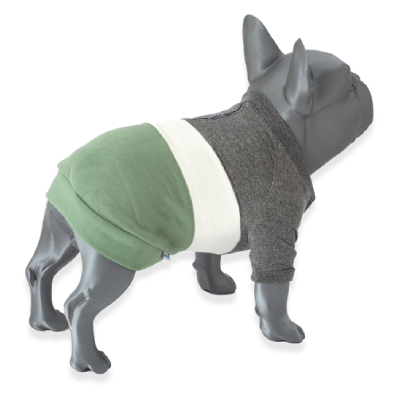
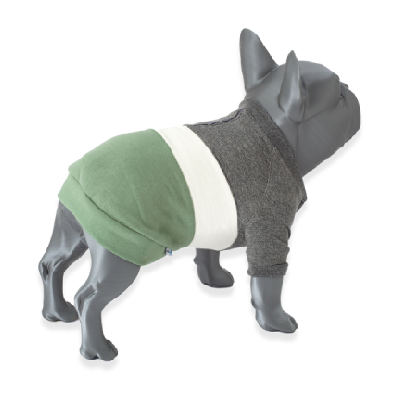
Finalizada la seccion de Senior Jack en Moda - Agregamos Dakota. Corrección en imagenes

diff --git a/moda.html b/moda.html
@@ -174,12 +174,159 @@
               </div>
               <p>Talles S, M, L y XL</p>
             </div>
-
-
-
-
+            <div id="item-moda">
+              <p class="marca-alim">Buzo Ocean Plush</p>
+              <div class="card">
+                <div class="first-content">
+                    <img src="./PROD-MODA/Senior-Jack/JACK-BUZO-OCEAN-PLUSH-COLORES.png" alt="">
+                </div>
+                <div class="second-content">
+                    <img src="./PROD-MODA/Senior-Jack/JACK-BUZO-OCEAN-PLUSH-MODELO.png" alt="">
+                </div>
+              </div>
+              <p>Talles S, M, L y XL</p>
+            </div>
+            <div id="item-moda">
+              <p class="marca-alim">Buzo Polar Estampado</p>
+              <div class="card">
+                <div class="first-content">
+                    <img src="./PROD-MODA/Senior-Jack/JACK-BUZO-POLAR-ESTAMPADO-COLORES.png" alt="">
+                </div>
+                <div class="second-content">
+                    <img src="./PROD-MODA/Senior-Jack/JACK-BUZO-POLAR-ESTAMPADO-MODELO.png" alt="">
+                </div>
+              </div>
+              <p>Talles S, M, L y XL</p>
+            </div>
+            <div id="item-moda">
+              <p class="marca-alim">Buzo Polar Liso</p>
+              <div class="card">
+                <div class="first-content">
+                    <img src="./PROD-MODA/Senior-Jack/JACK-BUZO-POLAR-LISO-COLORES.png" alt="">
+                </div>
+                <div class="second-content">
+                    <img src="./PROD-MODA/Senior-Jack/JACK-BUZO-POLAR-LISO-MODELO.png" alt="">
+                </div>
+              </div>
+              <p>Talles S, M, L y XL</p>
+            </div>
+            <div id="item-moda">
+              <p class="marca-alim">Buzo Trendy</p>
+              <div class="card">
+                <div class="first-content">
+                    <img src="./PROD-MODA/Senior-Jack/JACK-BUZO-TRENDY-COLORES.png" alt="">
+                </div>
+                <div class="second-content">
+                    <img src="./PROD-MODA/Senior-Jack/JACK-BUZO-TRENDY-MODELO.png" alt="">
+                </div>
+              </div>
+              <p>Talles S, M, L y XL</p>
+            </div>
           </div>
-    
+
+          <div class="titulo-marca">Camperas y Chalecos</div>
+          <div class="grilla-400">
+
+            <div id="item-moda">
+              <p class="marca-alim">Campera con Capucha de Piel</p>
+              <div class="card">
+                <div class="first-content">
+                    <img src="./PROD-MODA/Senior-Jack/JACK-CAMPERA-CAPUCHA-PIEL-COLORES.png" alt="">
+                </div>
+                <div class="second-content">
+                    <img src="./PROD-MODA/Senior-Jack/JACK-CAMPERA-CAPUCHA-PIEL-MODELO.png" alt="">
+                </div>
+              </div>
+              <p>Talles S, M, L y XL</p>
+            </div>
+            <div id="item-moda">
+              <p class="marca-alim">Campera Impermeable Regulable</p>
+              <div class="card">
+                <div class="first-content">
+                    <img src="./PROD-MODA/Senior-Jack/JACK-CAMPERA-IMP-REG-PREMIUM-COLORES.png" alt="">
+                </div>
+                <div class="second-content">
+                    <img src="./PROD-MODA/Senior-Jack/JACK-CAMPERA-IMP-REG-PREMIUM-MODELO.png" alt="">
+                </div>
+              </div>
+              <p>Talles S, M, L y XL</p>
+            </div>
+            <div id="item-moda">
+              <p class="marca-alim">Campera Maori</p>
+              <div class="card">
+                <div class="first-content">
+                    <img src="./PROD-MODA/Senior-Jack/JACK-CAMPERA-MAORI-COLORES.png" alt="">
+                </div>
+                <div class="second-content">
+                    <img src="./PROD-MODA/Senior-Jack/JACK-CAMPERA-MAORI-MODELO.png" alt="">
+                </div>
+              </div>
+              <p>Talles S, M, L y XL</p>
+            </div>
+            <div id="item-moda">
+              <p class="marca-alim">Chaleco Elastizado</p>
+              <div class="card">
+                <div class="first-content">
+                    <img src="./PROD-MODA/Senior-Jack/JACK-CHALECO-ELASTIZADO-COLORES.png" alt="">
+                </div>
+                <div class="second-content">
+                    <img src="./PROD-MODA/Senior-Jack/JACK-CHALECO-ELASTIZADO-MODELO.png" alt="">
+                </div>
+              </div>
+              <p>Talles S, M, L y XL</p>
+            </div>
+          </div>
+          <div class="titulo-marca">Capas y Pilotos para lluvia</div>
+          <div class="grilla-400">
+
+            <div id="item-moda">
+              <p class="marca-alim">Capa Liviana</p>
+              <div class="card">
+                <div class="first-content">
+                    <img src="./PROD-MODA/Senior-Jack/JACK-CAPA-LIVIANA-COLORES.png" alt="">
+                </div>
+                <div class="second-content">
+                    <img src="./PROD-MODA/Senior-Jack/JACK-CAPA-LIVIANA-MODELO.png" alt="">
+                </div>
+              </div>
+              <p>Talles S, M, L y XL</p>
+            </div>
+            <div id="item-moda">
+              <p class="marca-alim">Piloto</p>
+              <div class="card">
+                <div class="first-content">
+                    <img src="./PROD-MODA/Senior-Jack/JACK-PILOTO-LLUVIA-COLORES.png" alt="">
+                </div>
+                <div class="second-content">
+                    <img src="./PROD-MODA/Senior-Jack/JACK-PILOTO-LLUVIA-MODELO.png" alt="">
+                </div>
+              </div>
+              <p>Talles S, M, L y XL</p>
+            </div>
+          </div>
+        </div>
+        <div class="titulo">Dakota</div>
+        <div class="titulo-marca">Camperas y Chalecos</div>
+        <div class="grilla-400">
+          
+          <div id="item-moda">
+            <p class="marca-alim">Capa X</p>
+            <div class="card">
+              <div class="first-content">
+                  <img src="./PROD-MODA/400-logo-CAMARA.png" alt="">
+              </div>
+              <div class="second-content">
+                  <img src="./PROD-MODA/400-logo-CAMARA.png" alt="">
+              </div>
+            </div>
+            <p>Talles S, M, L y XL</p>
+          </div>
+
+
+        </div>
+
+
+
 
         
     </main>
